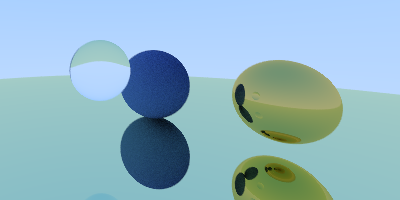
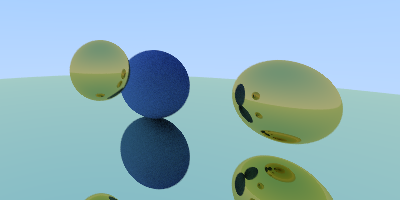
meddle with recoursive logic

diff --git a/src/materials.rs b/src/materials.rs
@@ -8,14 +8,9 @@ use rand::Rng;
 /// 2. If the point outside of the spere - reject it and try again
 /// while we find the one that is inside of the sphere.
 pub fn rand_in_unit_sphere() -> Vec3 {
-    let mut rng = rand::thread_rng();
+    let rand = || rand::thread_rng().gen_range(-1.0..1.0);
     loop {
-        let p =
-            2.0 * Vec3::new(
-                rng.gen_range(-1.0..1.0),
-                rng.gen_range(-1.0..1.0),
-                rng.gen_range(-1.0..1.0),
-            ) - Vec3::ONE;
+        let p = 2.0 * Vec3::new(rand(), rand(), rand()) - Vec3::ONE;
         if p.length_squared() >= 1.0 {
             break p;
         }
@@ -116,6 +111,13 @@ impl Refractive {
         let r0 = r0 * r0;
         r0 + (1.0 - r0) * (1.0 - cosine).powi(5)
     }
+
+    // fn refract_vec(uv: Vec3, n: Vec3, etai_over_etat: f32) -> Vec3 {
+    //     let cos_theta = (-uv).dot(n).min(1.0);
+    //     let r_out_perp = etai_over_etat * (uv + (cos_theta * n));
+    //     let r_out_parallel = -(((1.0 - r_out_perp.length_squared()) as f32).abs().sqrt()) * n;
+    //     r_out_perp + r_out_parallel
+    // }
 }
 
 impl Material for Refractive {
@@ -136,10 +138,18 @@ impl Material for Refractive {
                 -ray.direction().dot(hit.normal) / ray.direction().length(),
             )
         };
-        let refracted = Self::refract(ray.direction(), outward_normal, refraction_ratio);
+
+        // // Borrowed solution from
+        // // https://github.com/ndhansen/raytracer/blob/main/src/scene/materials/dielectric.rs
+        // let unit_direction = ray.direction().unit_vec();
+        // let cos_theta = (-unit_direction).dot(hit.normal).min(1.0);
+        // let sin_theta = (1.0 - cos_theta.powi(2)).sqrt();
+        // let cannot_refract = refraction_ratio * sin_theta > 1.0;
+
         let attenuation = Vec3::splat(1.0);
-        let default_scattered = Ray::new(hit.p, reflected);
         let random = rand::thread_rng().gen_range(0.0..1.0);
+        let default_scattered = Ray::new(hit.p, reflected);
+        let refracted = Self::refract(ray.direction(), outward_normal, refraction_ratio);
         let prob = refracted
             .map(|_| Self::shlick(cosine, self.refractive_index))
             .unwrap_or(1.0);
@@ -149,8 +159,14 @@ impl Material for Refractive {
         } else {
             return Some((attenuation, Ray::new(hit.p, refracted)));
         }
-        // refracted
-        //     .map(|refracted| Some((attenuation, Ray::new(hit.p, refracted))))
-        //     .unwrap_or(Some((attenuation, Ray::new(hit.p, reflected))))
+
+        // let reflectance = Self::shlick(cos_theta, refraction_ratio);
+        // let direction = if cannot_refract || reflectance > random {
+        //     // eprintln!("reflected with {} vs {} random! (cannot_refract: {})", reflectance, random_double, cannot_refract);
+        //     Self::reflect(unit_direction, hit.normal)
+        // } else {
+        //     Self::refract_vec(unit_direction, hit.normal, refraction_ratio)
+        // };
+        // Some((attenuation, Ray::new(hit.p, direction)))
     }
 }

diff --git a/src/lib.rs b/src/lib.rs
@@ -12,15 +12,14 @@ use parallel::{ANTIALIASING, DEPTH, HEIGHT, WIDTH};
 use scene::Camera;
 
 /// Determine ray color
-pub fn ray_color(x: f32, y: f32, camera: &Camera, world: &Vec<BoxedSurface>) -> Rgb<u8> {
+pub fn pixel_color(x: f32, y: f32, camera: &Camera, world: &Vec<BoxedSurface>) -> Rgb<u8> {
     let mut col = Vec3::ZERO;
-    let mut rng = rand::thread_rng();
 
     for _ in 0..ANTIALIASING {
-        let rand = rng.gen_range(0.0..1.0);
-
+        let rand = || rand::thread_rng().gen_range(0.0..1.0);
+        
         // This two are pixel's relative coordinates on the screen
-        let (u, v) = (((x + rand) / WIDTH), ((y + rand) / HEIGHT));
+        let (u, v) = (((x + rand()) / WIDTH), ((y + rand()) / HEIGHT));
         let ray = camera.get_ray(u, v);
         col += ray.color(&world, DEPTH);
     }
@@ -72,7 +71,7 @@ impl Ray {
     pub fn color(&self, world: &Vec<BoxedSurface>, depth: i32) -> Vec3 {
         if let Some(hit) = world.hit(&self, 0.001, f32::MAX) {
             if let Some((attenuation, scattered)) = hit.material.scatter(self, &hit) {
-                let col: Vec3 = scattered.color(world, depth);
+                let col = scattered.color(world, depth);
                 return attenuation * col;
             }
         }

diff --git a/src/parallel.rs b/src/parallel.rs
@@ -1,4 +1,4 @@
-use crate::{ray_color, scene::Camera, BoxedSurface};
+use crate::{pixel_color, scene::Camera, BoxedSurface};
 use image::Rgb;
 use rayon::prelude::*;
 use std::time::Instant;
@@ -7,7 +7,7 @@ pub const DIM: f32 = 200.0;
 pub const HEIGHT: f32 = DIM;
 pub const WIDTH: f32 = DIM * 2.0;
 pub const ANTIALIASING: i32 = 50;
-pub const DEPTH: i32 = 1;
+pub const DEPTH: i32 = 3;
 
 /// The heavy lifting starts here.
 /// This function allocates with size exactly if images pixels
@@ -26,7 +26,7 @@ pub fn render(camera: Camera, world: Vec<BoxedSurface>) -> Vec<Rgb<u8>> {
         let world = &world;
         ch.into_iter().enumerate().for_each(move |(x, p)| {
             let camera = camera.clone();
-            *p = ray_color(x as f32, y as f32, &camera, &world);
+            *p = pixel_color(x as f32, y as f32, &camera, &world);
         });
     });
     println!("Rendering time: {}s", start.elapsed().as_secs());
